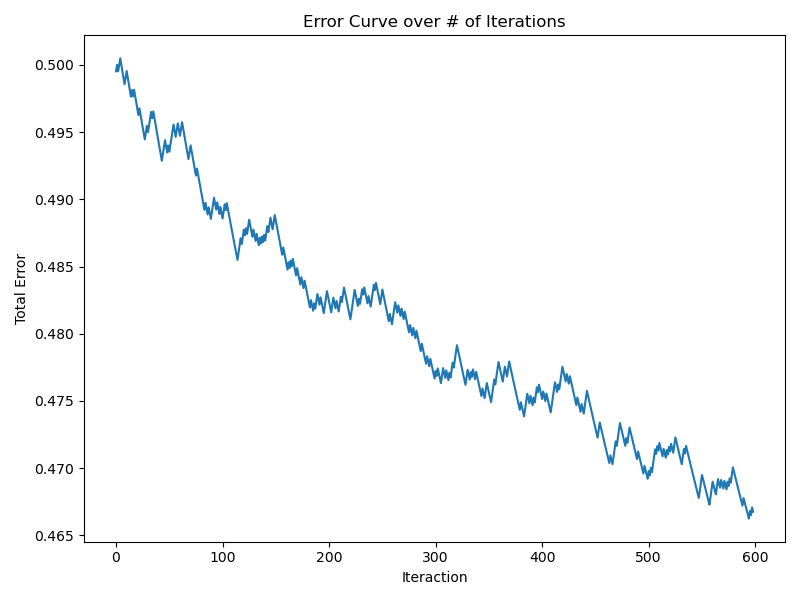
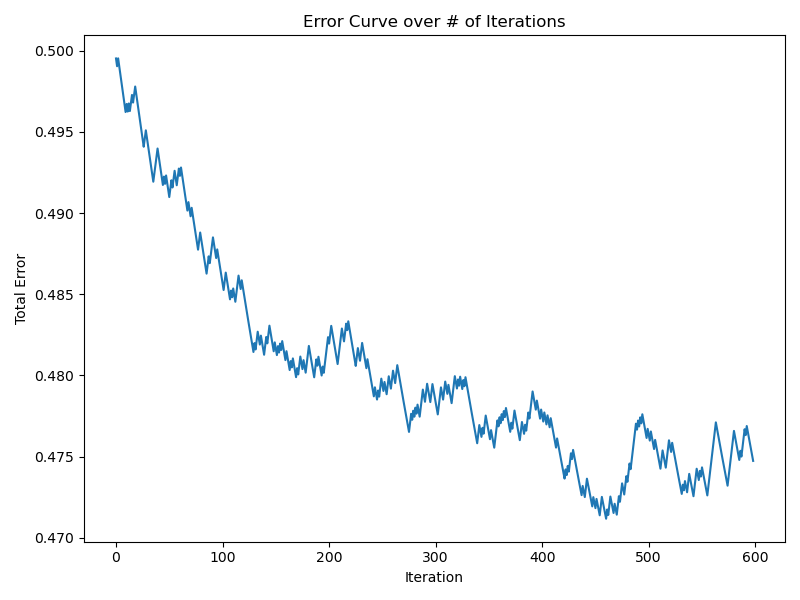
figs/ and src/ + files again

diff --git a/src/log_reg.py b/src/log_reg.py
@@ -28,7 +28,7 @@ def logistic_gd(y, X, alp=0.1, eps=1e-4):
     plt.plot(vbeta_history)
     plt.xlabel('Iteration')
     plt.ylabel('Change in vbeta')
-    plt.title('Change in vbeta vs. Iteration in the logistic regression gradient descent model')
+    plt.title('Change in vbeta vs. iteration in the logistic reg. gradient descent model')
     filename = 'figs/log_grad_dec_vbeta_change_plot.png'
     plt.savefig(filename)
     plt.show()
@@ -65,7 +65,7 @@ def logistic_newton(y, X, alpha=0.1, eps=1e-4):
     plt.plot(vbeta_history)
     plt.xlabel('Iteration')
     plt.ylabel('Change in vbeta')
-    plt.title('Change in vbeta vs. Iteration')
+    plt.title('Change in vbeta vs. iteration in the logistic regression Newton model')
     filename = 'figs/log_newton_vbeta_change_plot.png'
     plt.savefig(filename)
     plt.show()
@@ -112,7 +112,7 @@ plt.clf()  # Clear the current figure
 
 #Load dataset and execute logistic regression Newton model 
 X, y = load_dataset()
-vbeta, yhat = logistic_newton(y ,X , alpha=0.02, eps=2e-4)
+vbeta, yhat = logistic_newton(y ,X , alpha=0.018, eps=6e-4)
 print('Listed below are the final parameter values:/n')
 print(f'vhat: {yhat}')
 print(f'vbeta: {vbeta}')

diff --git a/src/lin_reg.py b/src/lin_reg.py
@@ -45,12 +45,12 @@ y = dat[:,1]
 
 b0,b1 = slr(y,x)
 plt.plot(x,y,'k.')    
-plt.plot(x,b0+b1*x,color='blue',linewidth=3)
+plt.plot(x,b0+b1*x,color='blue',linewidth=3, label='Linear Regression Best Fit Line')
 plt.legend()
 plt.title("Simple Linear Regresssion")
 plt.xlabel("Mother's Height")
 plt.ylabel("Daughter's Height")
-filename = 'figs/mother_daughter_heights.png'
+filename = 'figs/lin_reg_mother_daughter_heights.png'
 plt.savefig(filename)
 print('A chart showing the linear relationship of the daughter\'s height to their mother\'s \
     height as set by the linear regression model has been saved to', filename)
